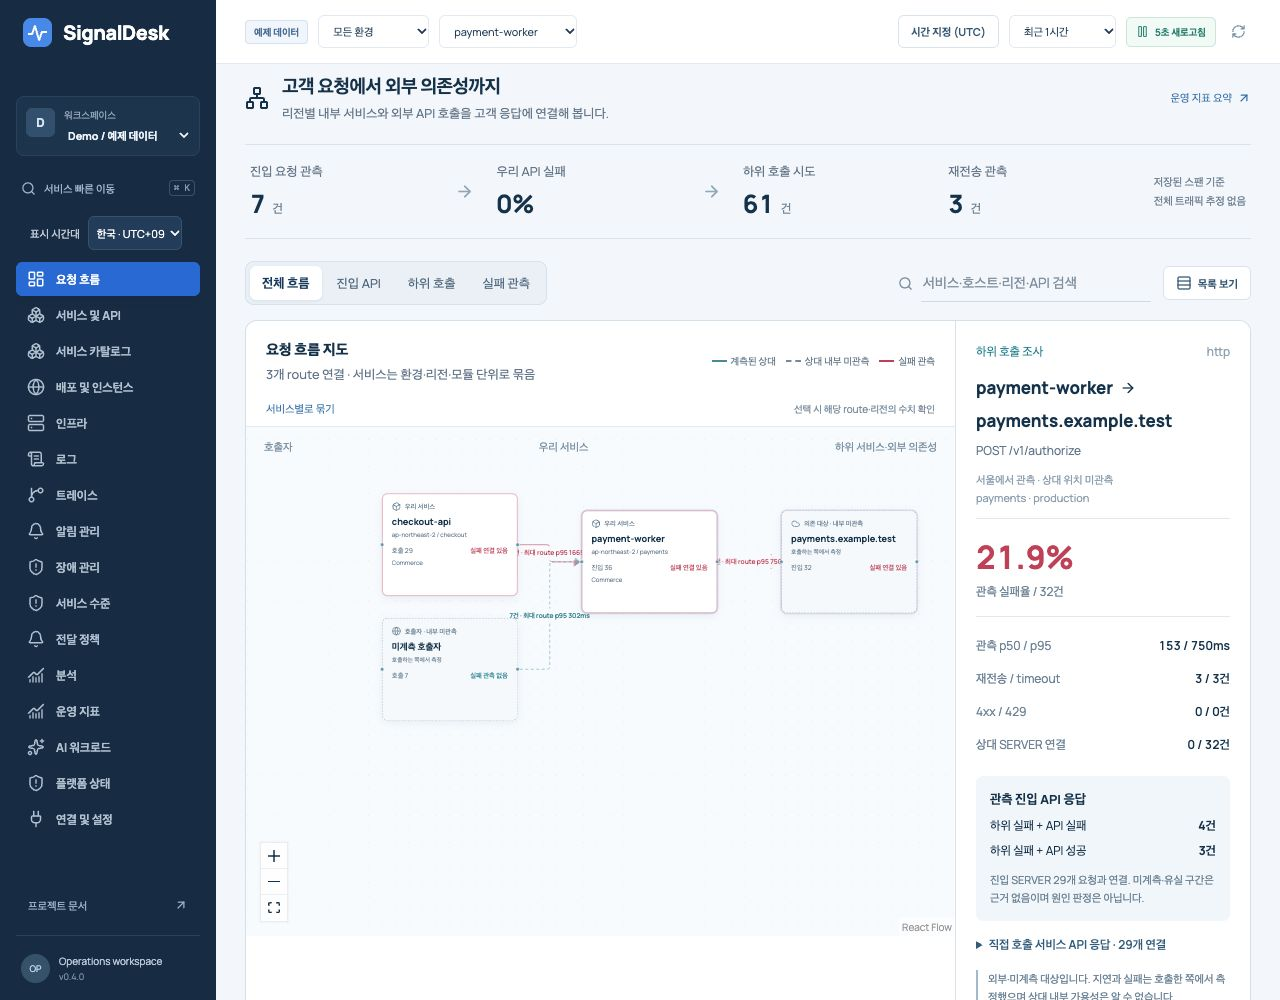
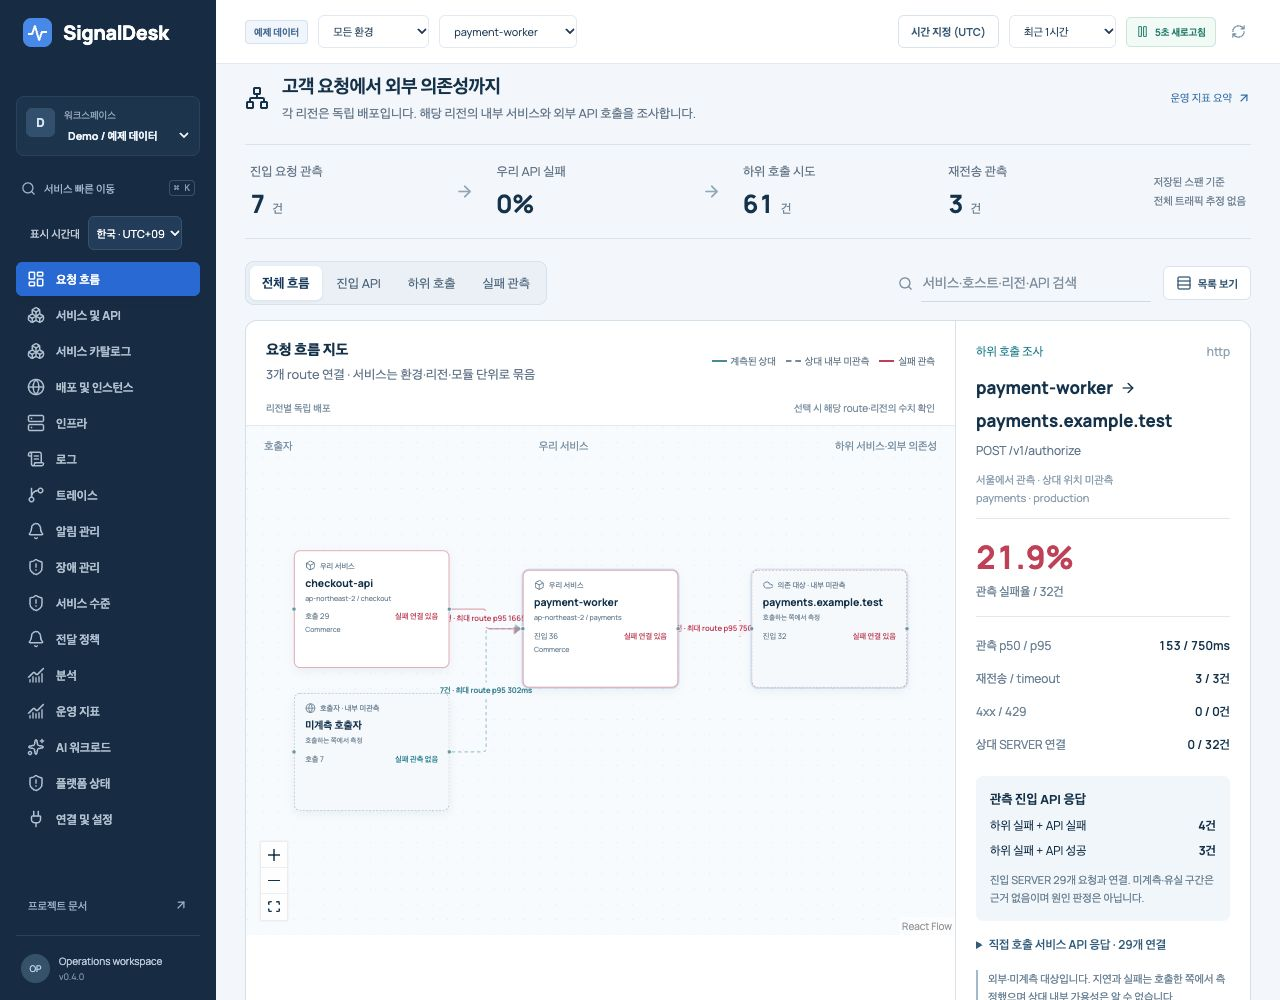
fix: preserve separate regional deployment nodes in request flows

diff --git a/apps/web/src/flow/RequestFlow.tsx b/apps/web/src/flow/RequestFlow.tsx
@@ -39,8 +39,7 @@ export function RequestFlow(p: PageProps) {
   });
   const [map, setMap] = useState(true),
     [search, setSearch] = useState(''),
-    [focus, setFocus] = useState<FlowNode | null>(null),
-    [regionsExpanded, setRegionsExpanded] = useState(true);
+    [focus, setFocus] = useState<FlowNode | null>(null);
   // Older saved cross-region-only views now open the ordinary regional flows.
   const mode = ['inbound', 'outbound', 'failures'].includes(String(p.params.flowView))
     ? String(p.params.flowView)
@@ -55,7 +54,7 @@ export function RequestFlow(p: PageProps) {
           n?.name === focus?.name &&
           n?.environment === focus?.environment &&
           n?.module === focus?.module &&
-          (focus?.region === 'all' || n?.region === focus?.region);
+          n?.region === focus?.region;
         return (
           matchesView(e, mode) &&
           (!focus || focused(source) || focused(target)) &&
@@ -75,31 +74,6 @@ export function RequestFlow(p: PageProps) {
     selectedTarget = node(selected?.target),
     observed = selectedSource?.type === 'workload' ? selectedSource : selectedTarget,
     internal = selectedSource?.type === 'workload' && selectedTarget?.type === 'workload';
-  const graph = useMemo(() => {
-    if (!data || regionsExpanded) return { data, edges, selected };
-    const groups = new Map<string, FlowNode[]>(),
-      mapping = new Map<string, string>();
-    for (const n of data.nodes) {
-      const k = JSON.stringify([n.type, n.name, n.environment, n.module]);
-      groups.set(k, [...(groups.get(k) ?? []), n]);
-    }
-    const nodes = [...groups.values()].map((group) => {
-      const n = group[0];
-      for (const x of group) mapping.set(x.id, n.id);
-      const regions = [...new Set(group.map((x) => x.region))];
-      return { ...n, region: regions.length > 1 ? 'all' : n.region, regions };
-    });
-    const convert = (e: FlowEdge) => ({
-      ...e,
-      source: mapping.get(e.source)!,
-      target: mapping.get(e.target)!,
-    });
-    return {
-      data: { ...data, nodes },
-      edges: edges.map(convert),
-      selected: selected ? convert(selected) : undefined,
-    };
-  }, [data, edges, selected, regionsExpanded]);
   const inbound = data?.edges.filter((e) => e.direction === 'inbound') ?? [],
     outbound = data?.edges.filter((e) => e.direction === 'outbound') ?? [];
   const total = (items: FlowEdge[], key: 'count' | 'errors' | 'retries') =>
@@ -123,7 +97,7 @@ export function RequestFlow(p: PageProps) {
           <Network size={24} />
           <div>
             <strong>고객 요청에서 외부 의존성까지</strong>
-            <p>리전별 내부 서비스와 외부 API 호출을 고객 응답에 연결해 봅니다.</p>
+            <p>각 리전은 독립 배포입니다. 해당 리전의 내부 서비스와 외부 API 호출을 조사합니다.</p>
           </div>
         </div>
         <button className="text-button" onClick={() => p.navigate('metrics')}>
@@ -209,9 +183,7 @@ export function RequestFlow(p: PageProps) {
       </div>
       {focus && (
         <div className="flow-focus">
-          {focus.name}의 연결{' '}
-          {focus.region !== 'unobserved' &&
-            ' / ' + (focus.region === 'all' ? '모든 리전' : focus.region)}
+          {focus.name}의 연결 {focus.region !== 'unobserved' && ' / ' + focus.region}
           <button className="text-button" onClick={() => setFocus(null)}>
             전체로 복귀
           </button>
@@ -223,7 +195,7 @@ export function RequestFlow(p: PageProps) {
                   page: 'services',
                   service: focus.name,
                   environment: focus.environment,
-                  region: focus.region === 'all' ? undefined : focus.region,
+                  region: focus.region,
                   module: focus.module,
                   instanceId: undefined,
                   cluster: undefined,
@@ -293,23 +265,14 @@ export function RequestFlow(p: PageProps) {
                 {map ? (
                   <>
                     <div className="flow-layout-toggle">
-                      <button
-                        className="text-button"
-                        aria-pressed={regionsExpanded}
-                        onClick={() => {
-                          setFocus(null);
-                          setRegionsExpanded(!regionsExpanded);
-                        }}
-                      >
-                        {regionsExpanded ? '서비스별로 묶기' : '리전별로 펼치기'}
-                      </button>
+                      <span>리전별 독립 배포</span>
                       <span>선택 시 해당 route·리전의 수치 확인</span>
                     </div>
                     <Suspense fallback={<Empty>지도를 불러오고 있습니다…</Empty>}>
                       <Canvas
-                        data={graph.data!}
-                        edges={graph.edges}
-                        selected={graph.selected}
+                        data={data}
+                        edges={edges}
+                        selected={selected}
                         onSelect={select}
                         onFocus={setFocus}
                       />

diff --git a/apps/web/src/flow/FlowCanvas.tsx b/apps/web/src/flow/FlowCanvas.tsx
@@ -50,9 +50,7 @@ const FlowCard = memo(function FlowCard({ data }: NodeProps<Node<NodeData>>) {
       </div>
       <strong title={n.name}>{n.name}</strong>
       <span className="flow-node-place">
-        {n.type === 'workload'
-          ? `${n.region === 'all' ? n.regions?.length + '개 리전' : n.region} / ${n.module}`
-          : '호출하는 쪽에서 측정'}
+        {n.type === 'workload' ? `${n.region} / ${n.module}` : '호출하는 쪽에서 측정'}
       </span>
       <div className="flow-node-count">
         <span>

diff --git a/packages/contracts/src/flow.ts b/packages/contracts/src/flow.ts
@@ -5,7 +5,7 @@ export type FlowIdentity = {
   region: string;
   module: string;
 };
-export type FlowNode = FlowIdentity & { id: string; owner: string | null; regions?: string[] };
+export type FlowNode = FlowIdentity & { id: string; owner: string | null };
 export type FlowEdge = {
   id: string;
   source: string;

diff --git a/docs/FIVE_REGION_OPERATIONS.md b/docs/FIVE_REGION_OPERATIONS.md
@@ -2,6 +2,8 @@
 
 2026-10-13. 제품의 운영 전제는 **유럽·북미·일본·싱가포르·서울에 같은 논리 서비스와 모듈을 배포하고, 각 리전의 인프라는 독립 운영하며 업무 API의 리전 간 호출은 없다**는 것이다. 각 고객 요청은 해당 리전 안의 내부 서비스를 거쳐 외부 API를 호출한다. 같은 소스/이미지를 배포해도 트래픽, 외부 API 경로, DB·큐·캐시, 설정, 배포 시점과 장애 상태는 다를 수 있다.
 
+각 리전은 별도로 전개된 애플리케이션 스택이다. 같은 서비스명은 같은 논리 역할을 뜻하며 실행 중인 하나의 서비스를 공유한다는 뜻이 아니다. 다른 리전의 API·worker·DB·큐·캐시를 호출하거나 그 리전의 요청 처리에 의존하지 않는다. 공통 화면에서 배포를 비교하더라도 요청 흐름의 서비스 노드는 리전별로 유지한다.
+
 ## 공통 서비스와 지역 배포를 구분한다
 
 | 책임         | 공통으로 관리                                          | 리전별로 관리                                                          |
@@ -20,46 +22,46 @@
 
 ```mermaid
 flowchart TB
-  Router[외부 클라이언트의 리전별 요청] --> EUAPI
-  Router --> NAAPI
-  Router --> JPAPI
-  Router --> SGAPI
-  Router --> KRAPI
+  EUClient[유럽 배포의 클라이언트] --> EUAPI
+  NAClient[북미 배포의 클라이언트] --> NAAPI
+  JPClient[일본 배포의 클라이언트] --> JPAPI
+  SGClient[싱가포르 배포의 클라이언트] --> SGAPI
+  KRClient[서울 배포의 클라이언트] --> KRAPI
   subgraph EU[유럽의 독립 인프라]
     EUAPI[동일 API] --> EUWorker[동일 내부 서비스]
     EUWorker --> EUExternal[외부 API 호출]
-    EUAPI --> EUCollector[지역 Collector + 영속 큐]
-    EUWorker --> EUCollector
+    EUAPI -. 관측 데이터 .-> EUCollector[지역 Collector + 영속 큐]
+    EUWorker -.-> EUCollector
   end
   subgraph NA[북미의 독립 인프라]
     NAAPI[동일 API] --> NAWorker[동일 내부 서비스]
     NAWorker --> NAExternal[외부 API 호출]
-    NAAPI --> NACollector[지역 Collector + 영속 큐]
-    NAWorker --> NACollector
+    NAAPI -. 관측 데이터 .-> NACollector[지역 Collector + 영속 큐]
+    NAWorker -.-> NACollector
   end
   subgraph JP[일본의 독립 인프라]
     JPAPI[동일 API] --> JPWorker[동일 내부 서비스]
     JPWorker --> JPExternal[외부 API 호출]
-    JPAPI --> JPCollector[지역 Collector + 영속 큐]
-    JPWorker --> JPCollector
+    JPAPI -. 관측 데이터 .-> JPCollector[지역 Collector + 영속 큐]
+    JPWorker -.-> JPCollector
   end
   subgraph SG[싱가포르의 독립 인프라]
     SGAPI[동일 API] --> SGWorker[동일 내부 서비스]
     SGWorker --> SGExternal[외부 API 호출]
-    SGAPI --> SGCollector[지역 Collector + 영속 큐]
-    SGWorker --> SGCollector
+    SGAPI -. 관측 데이터 .-> SGCollector[지역 Collector + 영속 큐]
+    SGWorker -.-> SGCollector
   end
   subgraph KR[서울의 독립 인프라]
     KRAPI[동일 API] --> KRWorker[동일 내부 서비스]
     KRWorker --> KRExternal[외부 API 호출]
-    KRAPI --> KRCollector[지역 Collector + 영속 큐]
-    KRWorker --> KRCollector
+    KRAPI -. 관측 데이터 .-> KRCollector[지역 Collector + 영속 큐]
+    KRWorker -.-> KRCollector
   end
-  EUCollector --> Central[중앙 관측 API / 조회·평가]
-  NACollector --> Central
-  JPCollector --> Central
-  SGCollector --> Central
-  KRCollector --> Central
+  EUCollector -.-> Central[중앙 관측 API / 조회·평가]
+  NACollector -.-> Central
+  JPCollector -.-> Central
+  SGCollector -.-> Central
+  KRCollector -.-> Central
 ```
 
 각 지역의 내부 API, worker, DB·큐·캐시는 해당 지역 안에서 호출한다. 다른 리전의 업무 서비스로 연결되는 경로는 없다. 지역 Collector는 로그·메트릭·스팬을 관측 플랫폼으로 전송하고, 중앙 화면에서 같은 서비스의 지역별 상태와 외부 API 결과를 비교한다. 업무 요청 흐름과 관측 데이터 수집 경로를 구분한다. 이 그림은 운영 설계이며 실제 다섯 지역의 프로비저닝 증거가 아니다. 클라이언트의 지역 선택·트래픽 라우팅은 애플리케이션 인프라의 책임이며 SignalDesk가 제어하지 않는다.
@@ -73,7 +75,7 @@ flowchart TB
 | 배포 및 인스턴스  | 서비스·환경·모듈별 리전 비교 표, 관측 상태/데이터 지연, 인스턴스 수, 완전한 관측일 때의 요청량·가중 오류율, 최대 인스턴스 p95 |
 | 리전 비교 표의 셀 | 해당 service/environment/module/region 범위로 좁히고 기존 zone/cluster/namespace/instance/edge 선택 해제; 시간 유지           |
 | 모든 리전 비교    | 지역과 하위 인프라 필터를 해제해 선택 서비스·환경·모듈을 지역 간 비교                                                         |
-| 요청 흐름         | 기본 리전별 구분, 각 지역의 진입 API→내부 서비스→외부 API, source→target 관측 경계; 선택적으로 서비스별 집계                  |
+| 요청 흐름         | 리전별로 별도 서비스 노드 유지, 각 지역의 진입 API→내부 서비스→외부 API, source→target 관측 경계                              |
 | 트레이스·로그     | 조사 시간/서비스/환경/리전/모듈을 연결; exact trace는 요청에 참여한 서비스·모듈의 스팬을 함께 조사                            |
 | 알림·전달 정책    | `groupBy=region` 또는 resource로 평가; 리전별 전달·유지보수·ACK·복구 상태를 유지                                              |
 
@@ -89,7 +91,7 @@ flowchart TB
 
 지역 상태는 현재 목록의 활성 리소스를 기준으로 `주의 > 데이터 지연·미수집 > 정상 관측` 순으로 표시하며, 제외된 리소스는 집계하지 않는다. 서비스 요청 합계는 내부 호출 중복을 포함하므로 고객 진입 요청량이 아니다. 앱 인스턴스 중 하나라도 요청량/오류율이 누락되면 완전한 합계/가중 오류율을 표시하지 않는다. 호스트만 존재하는 지역에는 API 지표를 만들지 않는다. p95는 관측된 최대 인스턴스 p95이며 통합 분위수가 아니다. 지도 집계는 비교 표의 50행·12리전 상한을 사용하지 않으며, 지역 목록은 12개씩 페이지를 나눈다. API 인벤토리 자체가 잘리면 지도에도 경고한다.
 
-지도 바탕은 [Natural Earth 1:110m land](https://github.com/nvkelso/natural-earth-vector/blob/ca96624a56bd078437bca8184e78163e5039ad19/geojson/ne_110m_land.geojson)의 public-domain 좌표를 고정 버전에서 SVG 경로로 변환한 것이다. `node scripts/generate-world-map.mjs`로 재생성한다. 경도·위도를 선형으로 배치하는 투영을 사용하며 실제 면적·거리 분석용이 아니다. 외부 지도 타일/API 키/브라우저 위치 정보가 필요하지 않고, 실제 호출을 확인하지 않은 지역 간 연결선은 그리지 않는다. 지도와 CSS는 배포 화면에서만 지연 로딩된다. [출처와 이용 조건](../THIRD_PARTY_NOTICES.md)를 참고한다.
+지도 바탕은 [Natural Earth 1:110m land](https://github.com/nvkelso/natural-earth-vector/blob/ca96624a56bd078437bca8184e78163e5039ad19/geojson/ne_110m_land.geojson)의 public-domain 좌표를 고정 버전에서 SVG 경로로 변환한 것이다. `node scripts/generate-world-map.mjs`로 재생성한다. 경도·위도를 선형으로 배치하는 투영을 사용하며 실제 면적·거리 분석용이 아니다. 외부 지도 타일/API 키/브라우저 위치 정보가 필요하지 않고, 리전 간 연결선은 그리지 않는다. 지도와 CSS는 배포 화면에서만 지연 로딩된다. [출처와 이용 조건](../THIRD_PARTY_NOTICES.md)를 참고한다.
 
 비교 표는 최대 50개 서비스·환경·모듈 행과 12개 리전을 표시한다. 더 큰 인벤토리는 전체 개수와 표시 상한을 알리고 검색/범위 필터로 좁히도록 한다. 인벤토리 API 자체의 상한도 별도로 표시한다.
 

diff --git a/README.ko.md b/README.ko.md
@@ -36,7 +36,7 @@ node examples/request-flow.mjs
 
 Live의 `environment=example`에서 확인하세요. 외부 실제 플랫폼에는 요청하지 않습니다. 신규 Demo는 유럽·북미·일본·싱가포르·서울의 다섯 리전에 같은 서비스와 독립 인프라를 배치합니다. 업무 API의 리전 간 호출은 없으며, 각 요청은 해당 리전의 내부 서비스를 거쳐 외부 API를 호출합니다. 지역별 수집 데이터는 중앙 화면에서 비교합니다. Live는 실제 수집 데이터이며 기본 로컬 실행에서는 호스트 CPU·메모리와 플랫폼 API 트레이스를 수집합니다. 기존 서버에는 수집기를 연결해야 합니다.
 
-같은 서비스·환경·모듈의 지역별 상태를 비교하고 해당 배포로 이동할 수 있습니다. 실제 다섯 지역을 배포한 결과가 아닌 예제 화면입니다. 형상 자동 대조와 실제 WAN 장애 전환은 구현·검증되지 않았습니다. [다섯 리전 운영 모델](docs/FIVE_REGION_OPERATIONS.md)에 구현 범위와 시나리오를 정리했습니다.
+같은 서비스·환경·모듈의 지역별 상태를 비교하고 해당 배포로 이동할 수 있습니다. 각 리전은 별도 애플리케이션 스택이며 요청 흐름에서 이름이 같은 서비스를 리전 간 하나의 노드로 합치지 않습니다. 실제 다섯 지역을 배포한 결과가 아닌 예제 화면입니다. 형상 자동 대조와 실제 WAN 장애 전환은 구현·검증되지 않았습니다. [다섯 리전 운영 모델](docs/FIVE_REGION_OPERATIONS.md)에 구현 범위와 시나리오를 정리했습니다.
 
 세계 지도와 아시아 확대도로 가까운 서울·일본·싱가포르를 구분합니다. 지역을 선택하면 관측 상태·인스턴스 수·지표를 확인하고 배포, 로그, 요청 흐름으로 이동할 수 있습니다. 지도는 대표 위치이며 실제 시설 위치가 아닙니다. 등록하지 않은 리전 코드는 위치를 추정하지 않고 선택 가능한 목록에 표시합니다. 지도 데이터는 앱에 포함되어 외부 지도 요청 없이 동작합니다.
 

diff --git a/docs/VERIFICATION.md b/docs/VERIFICATION.md
@@ -1,5 +1,12 @@
 # Verification record
 
+## Independent regional deployment nodes · 2026-10-13
+
+- Clarified that every region runs a separately deployed application stack: service names and code can match, but running APIs/workers and DB/queue/cache infrastructure are independent. Removed the graph's cross-region service-collapsing option and its synthetic `region=all` nodes. All-region status comparison remains available; request-flow workload nodes always retain their actual region/environment/module identity.
+- Chrome at 1280×1000 showed five separate `payment-worker` nodes with the same service name and distinct regional identities; the merge option was absent. Selecting the Japan node restricted the connection list to Japan → Japan internal traffic and provider attempts observed from Japan. Opening service metrics preserved `region=ap-northeast-1`, `environment=production` and `module=payments`.
+- The operating diagram now gives each region a separate client entry and distinguishes business calls from Collector telemetry with dotted observation paths. There are no business-call links between regional stacks. Updated README and [operating model](FIVE_REGION_OPERATIONS.md) describe separate deployments rather than a shared running service.
+- Local `npm run check` passed formatting, TypeScript, all 70 tests (zero failures/skips) and the production build. At 390×844 both map and connection list retained document width 390px. Console warning/error entries were empty, the temporary viewport override was reset and the [request-flow screenshot](screenshots/v04/region-local-flow.jpg) was refreshed with Demo data.
+
 ## Region-local business requests · 2026-10-13
 
 - The operating premise is now explicit: Europe, North America, Japan, Singapore and Seoul run the same application on independent infrastructure; business API calls stay inside their originating region before reaching external dependencies. Earlier cross-region application examples below record a superseded assumption, not the current topology.

diff --git a/README.md b/README.md
@@ -211,6 +211,8 @@ The [v0.4 research and design](docs/REQUEST_FLOW_REDESIGN.md) compares OTel, Goo
 
 The same application can be compared across independent European, North American, Japanese, Singaporean and Seoul deployments. Application services call internal services within their own region and then external dependencies; there are no inter-region application calls in this operating model. Regional telemetry feeds the central comparison workspace. A geographic overview pairs an offline world map with an Asian inset so nearby regions stay readable. Select a region to inspect its observed status and metrics, then open regional deployments, logs or request flows with the investigation scope preserved. Location markers use representative points, not facility locations; unregistered region codes stay in the equivalent selectable list. The new Demo keeps every trace's application spans/logs in one region. Compare service/environment/module rows and investigate each region's internal/external calls. [The five-region operating model](docs/FIVE_REGION_OPERATIONS.md) separates implemented behavior from release/digest drift inventory and real geographic resilience work.
 
+Each region is a separately deployed application stack. Identical service names retain separate regional nodes in request flows; the graph does not collapse them into a shared running service.
+
 ![Geographic region overview with an Asian inset · Demo](docs/screenshots/v04/region-atlas.jpg)
 
 ![Same service across five regions · Demo, not a geographic deployment](docs/screenshots/v04/five-regions.jpg)
